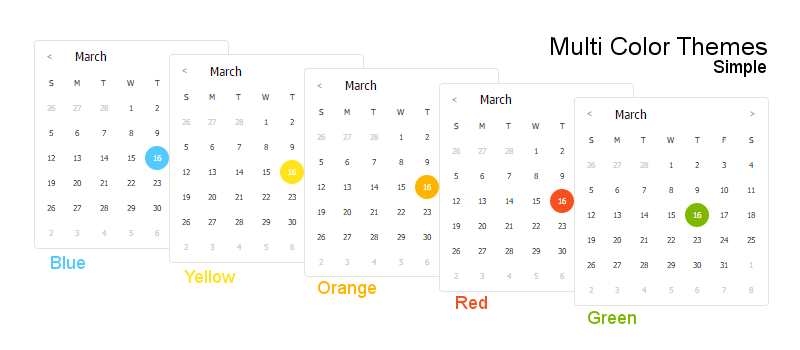
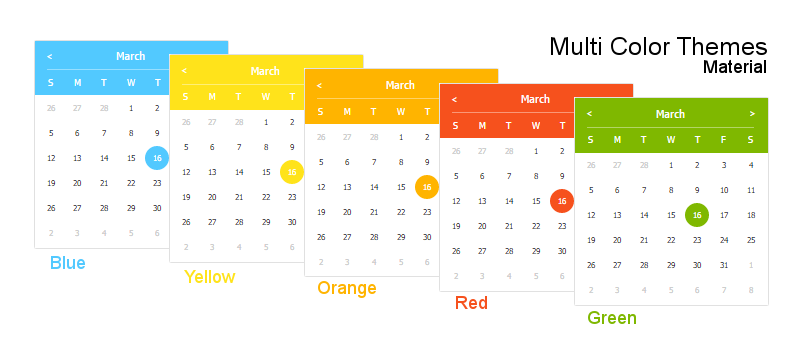
Update

Changed region(s): [[0.0312, 0.1143, 0.9688, 0.4571], [0.875, 0.1714, 0.9688, 0.2286]]

diff --git a/README.md b/README.md
@@ -5,6 +5,6 @@ Just a simple javascript calendar
 
 • [Live preview](https://gramthanos.github.io/jsCalendar/) • [Documentation](https://gramthanos.github.io/jsCalendar/docs.html)
 ![preview 1](preview/preview_1.png)
-![preview 2](preview/preview_2.png)
-![preview 3](preview/preview_3.png)
-![preview 4](preview/preview_4.png)
+![preview 3](preview/preview_2.png)
+![preview 4](preview/preview_3.png)
+![preview 5](preview/preview_4.png)
